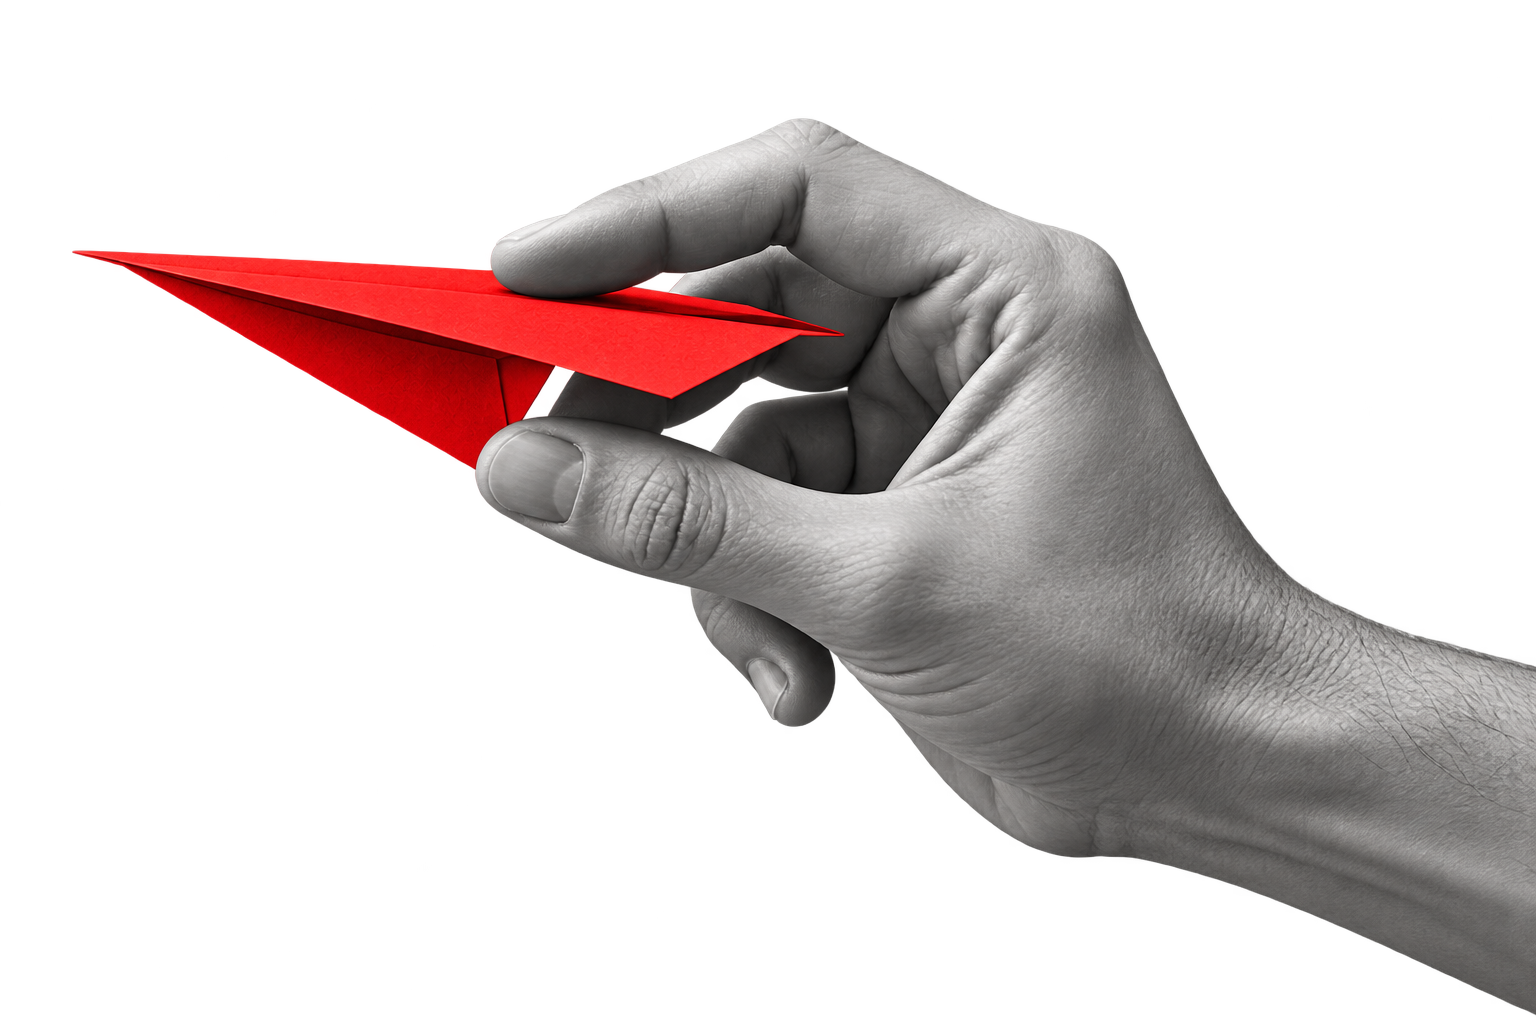
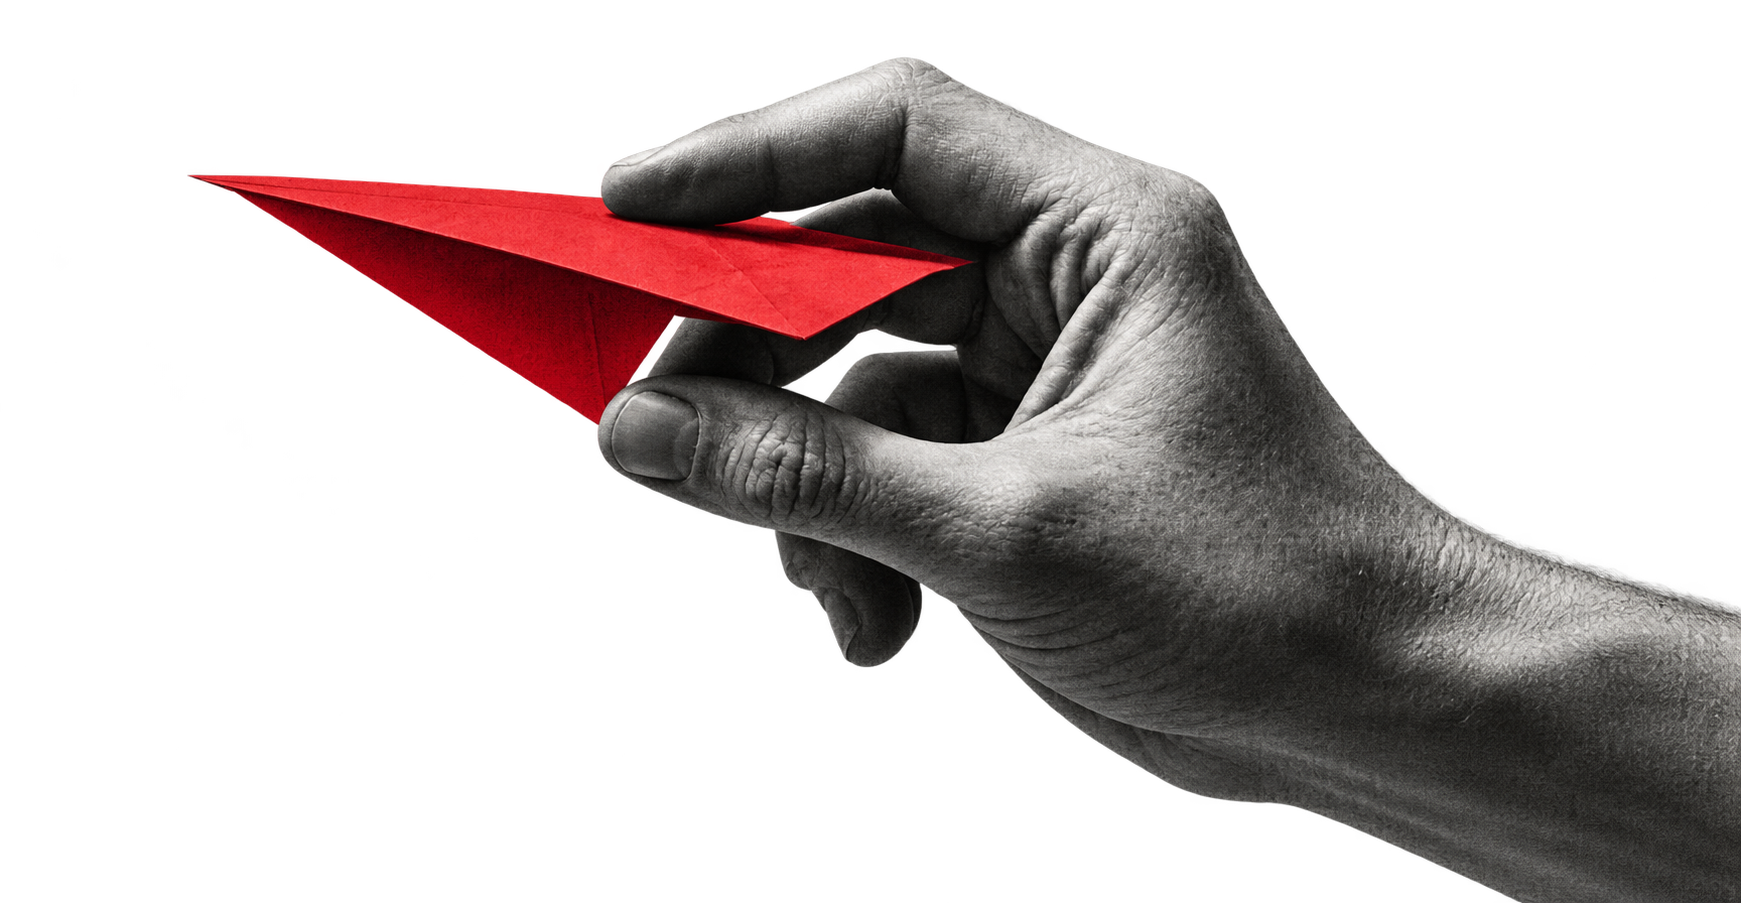
fix img from png to web

diff --git a/intership-app/src/views/HomeView.vue b/intership-app/src/views/HomeView.vue
@@ -4,15 +4,15 @@
     <div class="pointer-events-none absolute inset-0 z-0 overflow-hidden" aria-hidden="true">
       <!-- Large hand with a paper plane -->
       <img
-        src="/images/hand-plane.png"
+        src="/images/hand-plane.webp"
         alt=""
         draggable="false"
-        class="absolute -top-10 right-0 hidden lg:block w-[40vw] max-w-[640px] h-auto"
+        class="absolute top-4 right-[-4vw] hidden lg:block w-[36vw] max-w-[560px] h-auto"
       />
 
       <!-- Building and sun partially behind the form -->
       <img
-        src="/images/building-sun.png"
+        src="/images/building-sun.webp"
         alt=""
         draggable="false"
         class="absolute bottom-0 left-0 hidden lg:block w-[45vw] max-w-[720px] h-auto"
@@ -20,7 +20,7 @@
 
       <!-- Large roof with a seated man -->
       <img
-        src="/images/man-roof.png"
+        src="/images/man-roof.webp"
         alt=""
         draggable="false"
         class="absolute bottom-0 right-0 hidden lg:block w-[49vw] max-w-[780px] h-auto"
